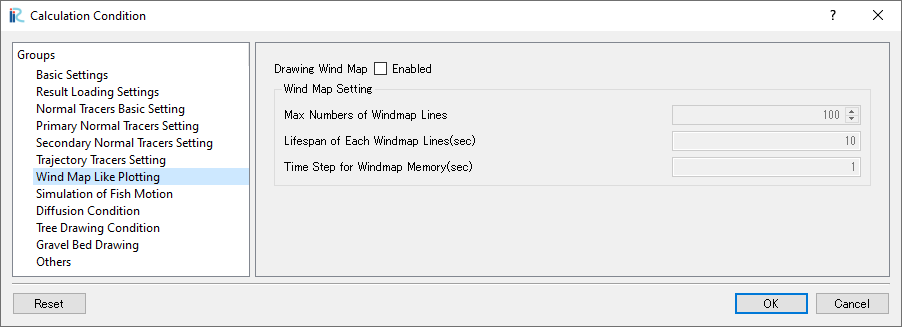
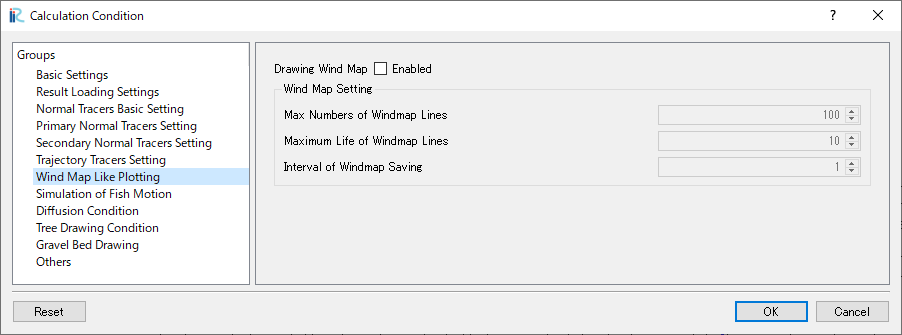
変更点を更新

diff --git a/source/02_Overview/01_Parameter.rst b/source/02_Overview/01_Parameter.rst
@@ -199,10 +199,6 @@ Maximum Number of Tracer Particles in one Cell
 | Specify the maximum number of tracers that can exist in one cell.
 | If the number of tracers in a cell has already reached this value, any tracers that move into the cell will be removed.
 
-.. note::
-   | In the current specification, the number of tracers that cannot move due to traps is also counted in the number of tracers in the cell, so if this value is low, it may reach the maximum number at the trap location and all tracers that move there will be removed.
-   | In that case, increase this value to avoid the issue.
-
 .. _Critical Depth for Tracer Moving(m) and Critical Shear Velocity Below Which The Tracer Stops(m/s):
 
 Critical Depth for Tracer Moving(m) and Critical Shear Velocity Below Which The Tracer Stops(m/s)
@@ -359,16 +355,15 @@ Max Numbers of Windmap Lines
 ------------------------------------------------------------------------------------------------------------------------
 | Specify the maximum number of lines to draw for Wind Map-like plotting.
 
-Lifespan of Each Windmap Lines(sec)
+Maximum Life of Windmap Lines
 ------------------------------------------------------------------------------------------------------------------------
 | Specify the maximum lifespan of each line for Wind Map-like plotting.
 | The drawn Wind Map lines will have a random lifespan up to this maximum value.
-| It is desirable to specify a value that can divide the lifespan evenly by the saving time interval, as the remainder will be truncated.
 
-Time Step for Windmap Memory(sec)
+Interval of Windmap Saving
 ------------------------------------------------------------------------------------------------------------------------
 | Specify how often to save the current location of the Wind Map line polyline as a node.
-| It is desirable to specify a value that can divide the saving time interval evenly by the tracking time interval, as the remainder will be truncated.
+| It is desirable to specify a value that can evenly divide the number of tracking calculations between GELATO outputs.
 
 Simulation of Fish Motion
 ========================================================================================================================

diff --git a/source/05_Update.rst b/source/05_Update.rst
@@ -233,3 +233,10 @@ Drawing Tree and Gravel Polygons
 ^^^^^^^^^^^^^^^^^^^^^^^^^^^^^^^^^^^^^^^^^^^^^^^^^^^^^^^^^^^^^^^^^^^^^^^^^^^^^^^^^^^^^^^^^^^^^^^^^^^^^^^^^^^^^^^^^^^^^^^^
 - A bug where tree and gravel polygons were drawn even if their positions were deeper than the specified depth has been fixed.
 - A bug where tree and gravel polygons were drawn outside the grid range has been fixed.
+
+Updates in GELATO Ver2.1
+------------------------------------------------------------------------------------------------------------------------
+The following points have been updated in GELATO Ver2.1 compared to Ver2.0.
+
+* Changed the specification so that trapped tracers are not counted in the number of tracers in the cell, but are counted separately as the number of trapped tracers.
+* Changed the specification so that the lifespan and saving interval of the Windmap wind drawing lines are specified by the number of times, similar to the trajectory tracking tracers, instead of seconds.
